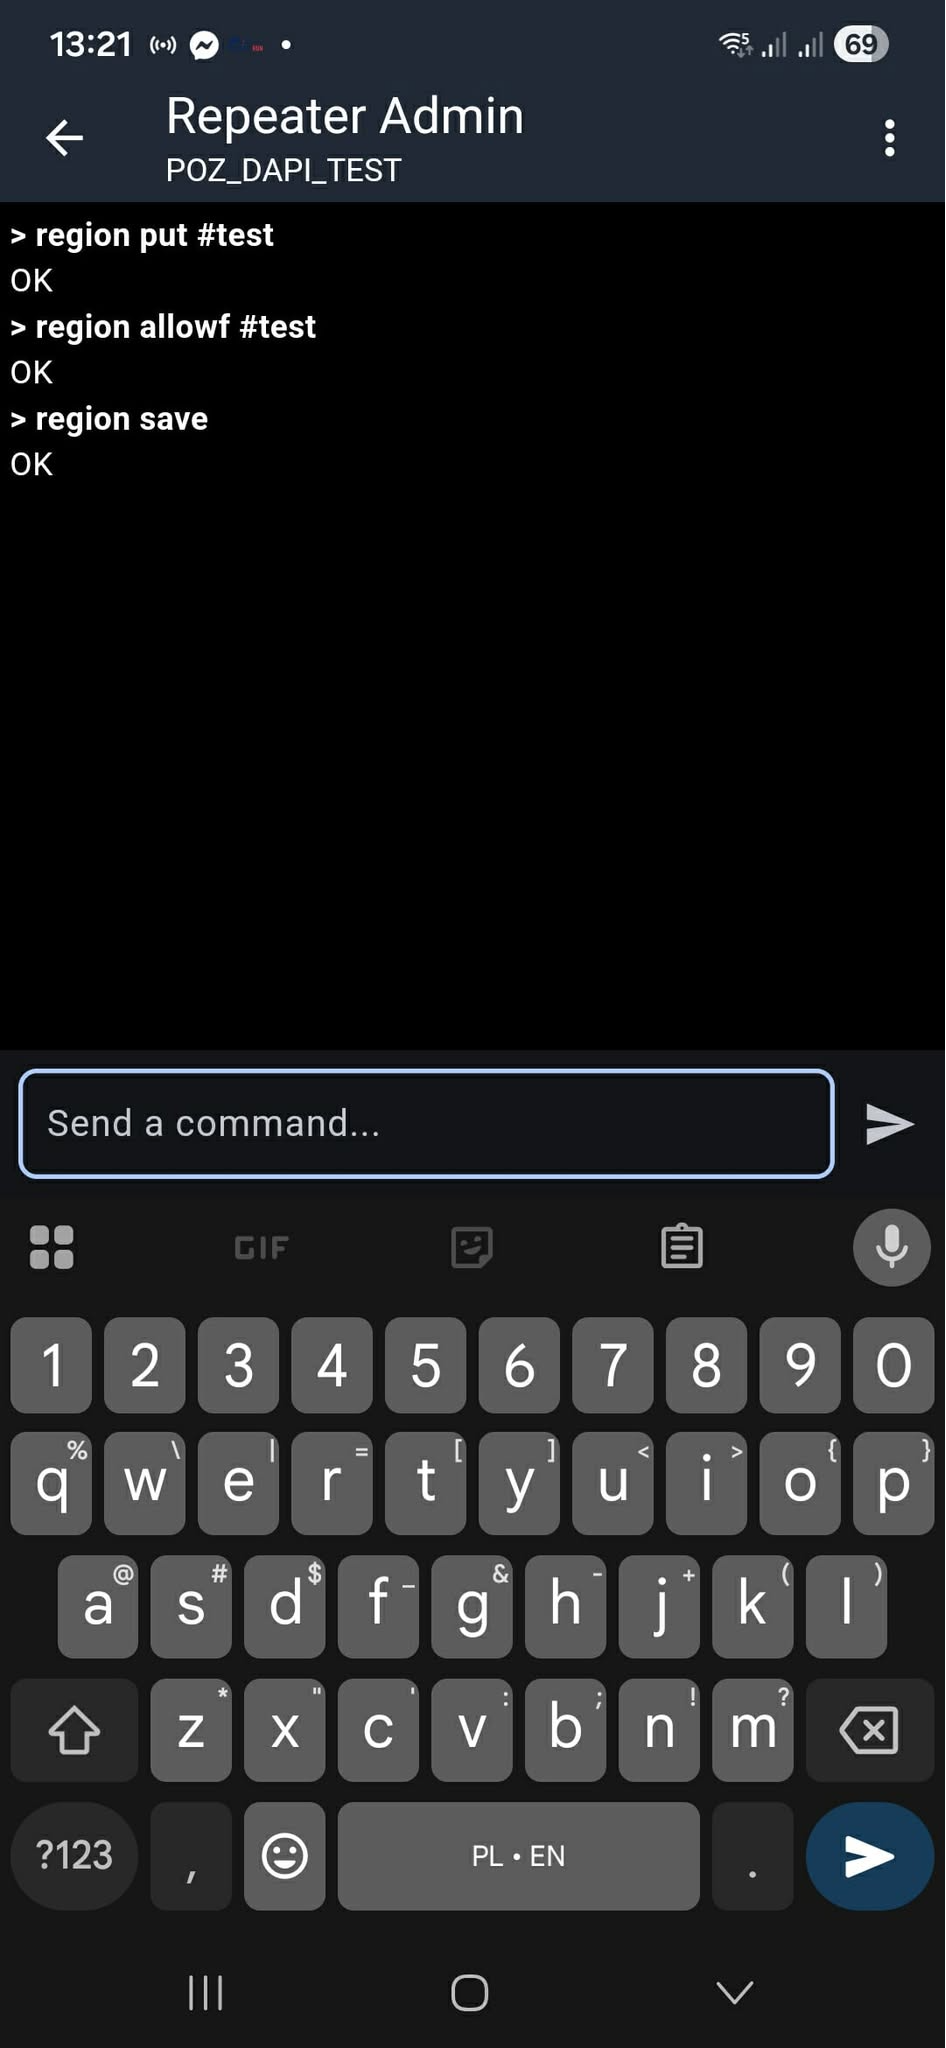
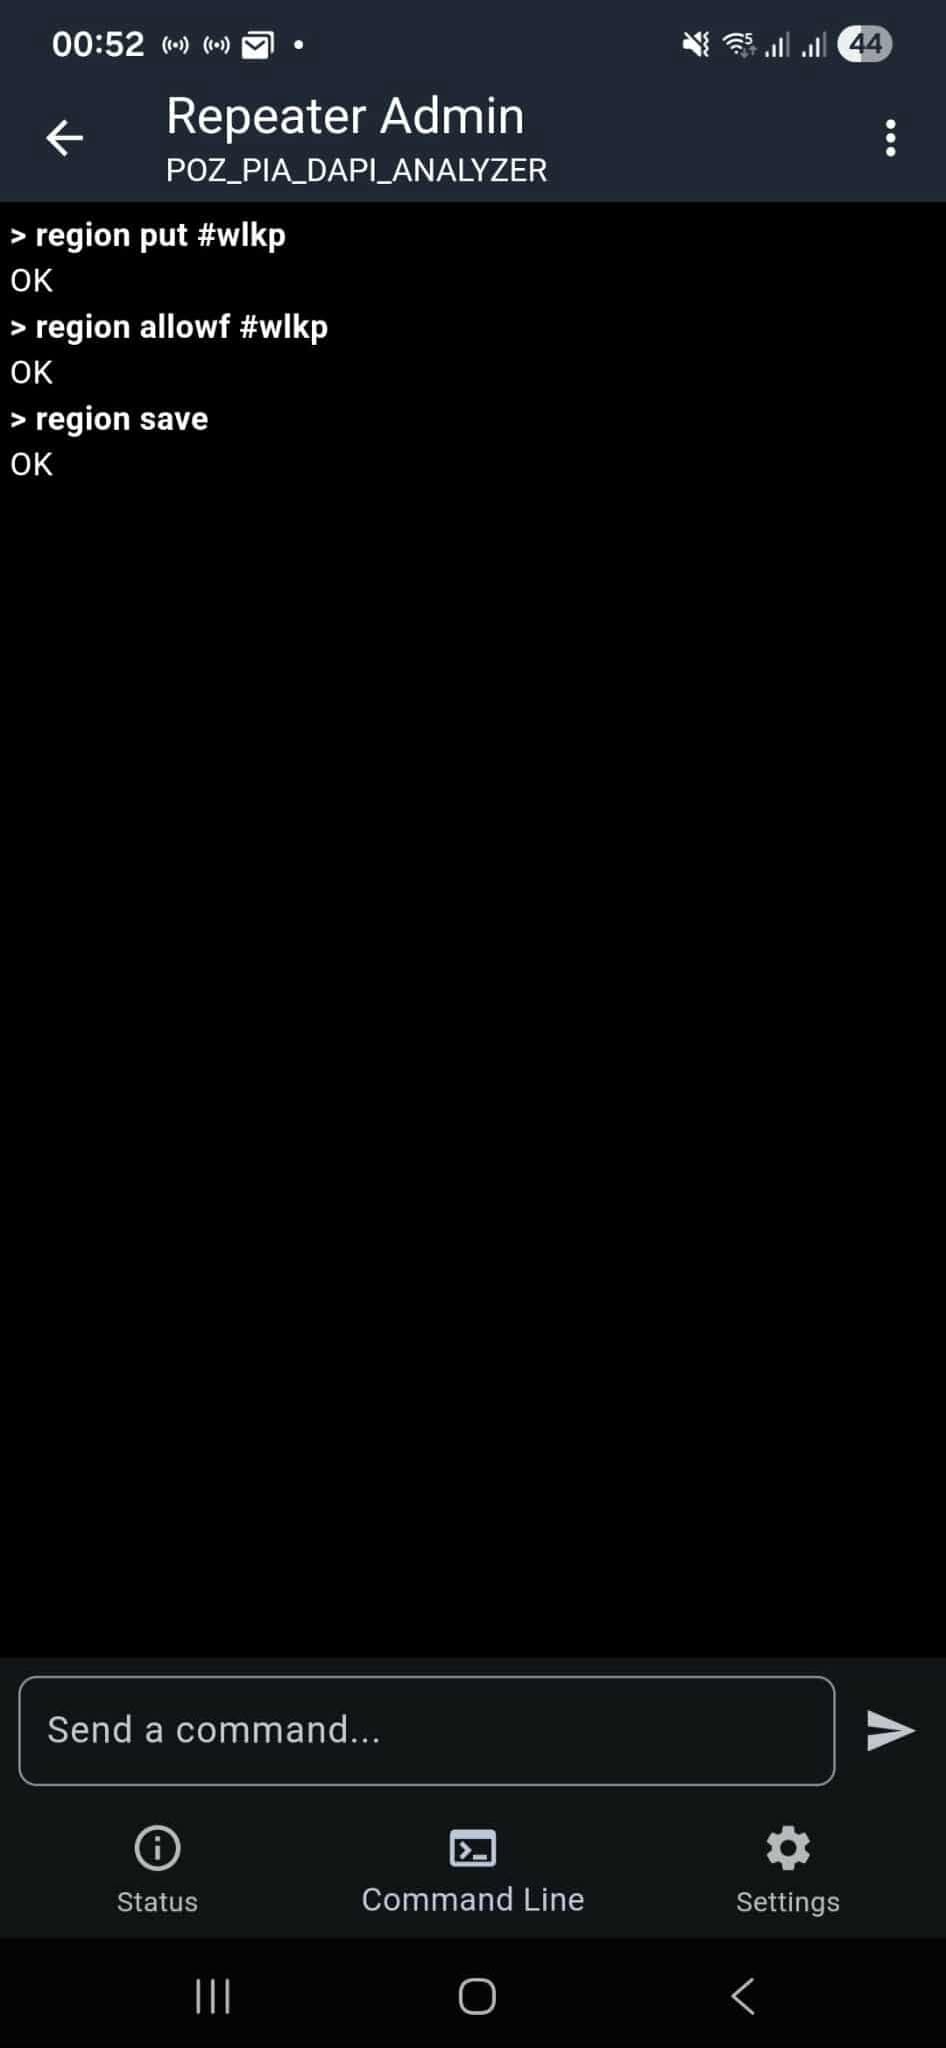
Added quickstart guide, changes regions configuration screeshot.

diff --git a/docs/quickstart.md b/docs/quickstart.md
@@ -1,0 +1,57 @@
+# Jak zacząć?
+
+## Companion
+Jeśli dołączasz jako posiadacz urządzenia typu companion:
+1. Upewnij się, że ustawiony preset odpowiada używanemu w Wielkopolsce - EU/UK Narrow ([zobacz szczegóły](/presets)).
+2. Dołącz do kanałów używanych w Wielkopolsce ([lista kanałów](/channels)).
+3. Ustaw region `#wlkp` dla kanału `#wlkp` ([zobacz instrukcję](/regions/#konfiguracja-regionu-dla-wiadomosci)).
+
+<details><summary>Szczegółowa instrukcja krok po kroku</summary>
+
+1. Ustawienie presetu EU/UK Narrow:
+   - Otwórz aplikację MeshCore i jeśli to konieczne, połącz się ze swoim companionem.
+   - W prawym górnym rogu wybierz ikonę koła zębatego, aby otworzyć ustawienia.
+   - Przewiń do sekcji "Radio Settings" i kliknij przycisk "Choose Preset".
+   - Z pomocą wyszukiwarki znajdź "EU/UK (Narrow)" i wybierz go.
+   - Zapisz zmiany, klikając ikonę ptaszka w prawym górnym rogu.
+2. Dołączanie do kanałów:
+   - Z ekranu głównego aplikacji MeshCore wybierz na dole kartę "Channels".
+   - Otwórz menu, klikając ikonę trzech kropek w prawym górnym rogu i wybierz opcję "Add Channel".
+   - Wybierz opcję "Join a Hashtag Channel".
+   - Podaj nazwę kanału, rozpoczynając od znaku `#`, a następnie zapisz, klikając przycisk "Join channel" oraz "Continue to channel". Listę używanych kanałów sprawdzisz [tutaj](/channels).
+3. Ustawianie regionu:
+   - Otwórz kanał, dla którego chcesz ustawić region, np. #wlkp.
+   - Otwórz menu, klikając ikonę trzech kropek w prawym górnym rogu i wybierz opcję "Set Region Scope".
+   - W prawym górnym rogu wybierz "+", dodaj region `#wlkp` i zapisz "ptaszkiem" w prawym górnym rogu. Hasztag i wielkość znaków mają znaczenie!
+   - Po zapisaniu zmian aplikacja przeniesie Cię do ekranu "Select Region". Wybierz `#wlkp` klikając w niego.
+</details>
+
+
+## Repeater
+Jeśli jesteś właścicielem repeatera:
+1. Upewnij się, że ustawiony preset odpowiada używanemu w Wielkopolsce - EU/UK Narrow ([zobacz szczegóły](/presets)).
+2. Zsynchronizuj czas (i pamiętaj, by robić to każdorazowo po odłączeniu zasilania): po zalogowaniu do repeatera przejdź do ustawień (`settings`), a następnie wybierz `Sync Clock`.
+3. Dodaj do repeatera region `#wlkpl` ([zobacz instrukcję](/regions/#konfiguracja-repeatera)).
+4. *(opcjonalnie)* Ustaw dane właściciela repeatera: po zalogowaniu do repeatera przejdź do ustawień (`settings`), a następnie wybierz `Owner Info`.
+
+
+<details><summary>Szczegółowa instrukcja krok po kroku</summary>
+
+1. Ustawienie presetu EU/UK Narrow:
+   - Otwórz aplikację MeshCore i jeśli to konieczne, połącz się ze swoim companionem.
+   - Z dolnego menu wybierz "Contacts", a następnie wybierz repeater, którym zarządzasz i zaloguj się do niego jako administrator.
+   - Z dolnego menu wybierz pozycję "Settings".
+   - Przewiń do sekcji "Radio Settings", kliknij ikonę trzech kropek, by otworzyć menu i wybierz opcję "Choose Preset".
+   - Z pomocą wyszukiwarki znajdź "EU/UK (Narrow)" i wybierz go.
+   - Zapisz zmiany, klikając ikonę ptaszka w prawym górnym rogu.
+2. Synchronizacja czasu:
+   - Po zalogowaniu do repeatera z dolnego menu wybierz pozycję "Settings".
+   - Przewiń w doł i wybierz pozycję "Sync Clock".
+3. Dodawanie regionu:
+   - Po zalogowaniu do repeatera z dolnego menu wybierz pozycję "Command Line".
+   - Wpisz kolejno trzy komendy, każdorazowo zatwierdzając je enterem: `region put #wlkp`, `region allowf #wlkp` i `region save`. Uwaga! Początkowy hasztag i wielkość znaków mają znaczenie!
+4. Ustawianie danych właściciela:
+    - Po zalogowaniu do repeatera z dolnego menu wybierz pozycję "Settings".
+    - Przewiń w doł i wybierz pozycję "Owner Info".
+    - Wpisz nazwę, którą posługujesz się na companionie i zatwierdź, klikając ikonę ptaszka.
+</details>

diff --git a/docs/channels.md b/docs/channels.md
@@ -1,7 +1,7 @@
-Nazwa      | Typ             | Region          | Przeznaczenie 
----------- | --------------- | --------------- | ------------
-Public     | Public Channel  | brak            | Publiczny kanał, ogólnokrajowy. W warunkach dobrej propagacji troposferycznej można tu czytać wiadomości z całej Polski a nawet z zagranicy.
-#emergency | Hashtag Channel | brak            | Kanał używany do [testów łączności awaryjnej](https://planawaryjny.com/lacznosc-awaryjna/). Testy odbywają sie 13 dnia każego miesiąca o godzinie 20:00.
-#info      | Hashtag Channel | brak            | Kanał używany do komunikacji z botem `"Bot/info ❗"`. Więcej informacjo o botach znajdziesz [tutaj](bots.md).
-#test      | Hashtag Channel | brak            | Kanał używany do testów łączności, np. po zmianach w sprzęcie czy oprogramowaniu, żeby nie zaśmiecać pozostałych kanałów.
-#wlkp      | Hashtag Channel | #wlkp ([czyt. więcej](regions.md)) | Lokalny kanał Wielkopolskiej Społeczności MeshCore. To zazwyczaj tu toczą się codzienne dyskusje.
+Nazwa      | Typ             | Region                                                  | Przeznaczenie 
+---------- | --------------- |---------------------------------------------------------| ------------
+Public     | Public Channel  | brak                                                    | Publiczny kanał, ogólnokrajowy. W warunkach dobrej propagacji troposferycznej można tu czytać wiadomości z całej Polski a nawet z zagranicy.
+#emergency | Hashtag Channel | brak                                                    | Kanał używany do [testów łączności awaryjnej](https://planawaryjny.com/lacznosc-awaryjna/). Testy odbywają sie 13 dnia każego miesiąca o godzinie 20:00.
+#info      | Hashtag Channel | brak                                                    | Kanał używany do komunikacji z botem `"Bot/info ❗"`. Więcej informacjo o botach znajdziesz [tutaj](bots.md).
+#test      | Hashtag Channel | brak lub opcjonalnie `#wlkp` ([czyt. więcej](regions.md)) | Kanał używany do testów łączności, np. po zmianach w sprzęcie czy oprogramowaniu, żeby nie zaśmiecać pozostałych kanałów.
+#wlkp      | Hashtag Channel | `#wlkp` ([czyt. więcej](regions.md))                      | Lokalny kanał Wielkopolskiej Społeczności MeshCore. To zazwyczaj tu toczą się codzienne dyskusje.

diff --git a/docs/index.md b/docs/index.md
@@ -9,3 +9,9 @@ znajdziesz odnośniki do miejsc, które pomogą Ci przyswoić podstawy działani
 W prawym górnym rogu każej strony, tuż obok tytułu, znajdziesz ikonę edycji, a na górnej belce także link do GitHuba.
 Jeśli masz pomysł na nową treść, chcesz coś zmienić lub poprawić, nie wahaj się wprowadzić zmianę i utworzyć Pull Request.
 Rozwijajmy tę stronę razem.
+
+---
+
+Jesteś nowy w Wielkopolsce?
+
+[Sprawdź od czego zacząć](/quickstart){ .md-button .md-button--primary }
